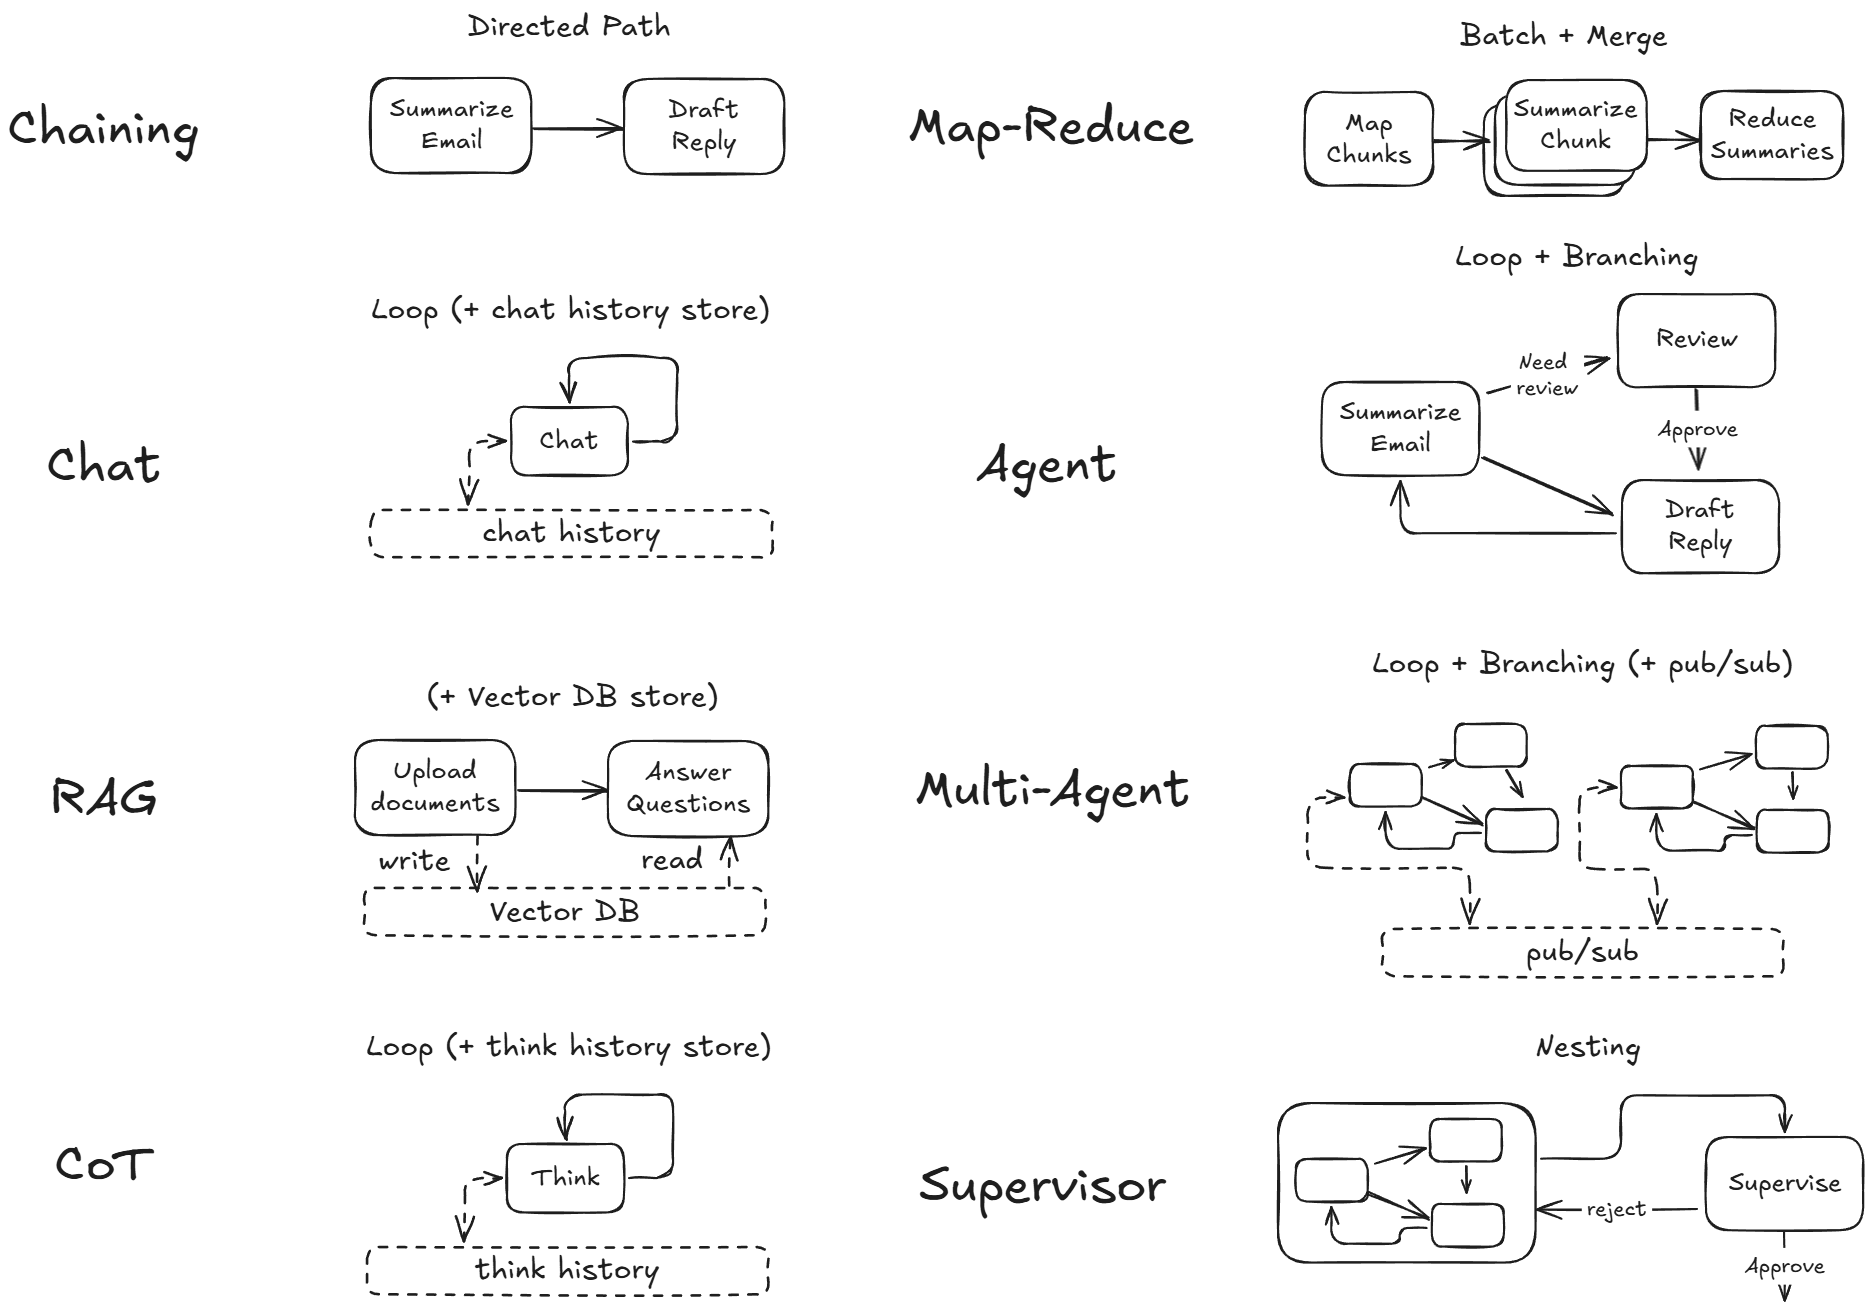
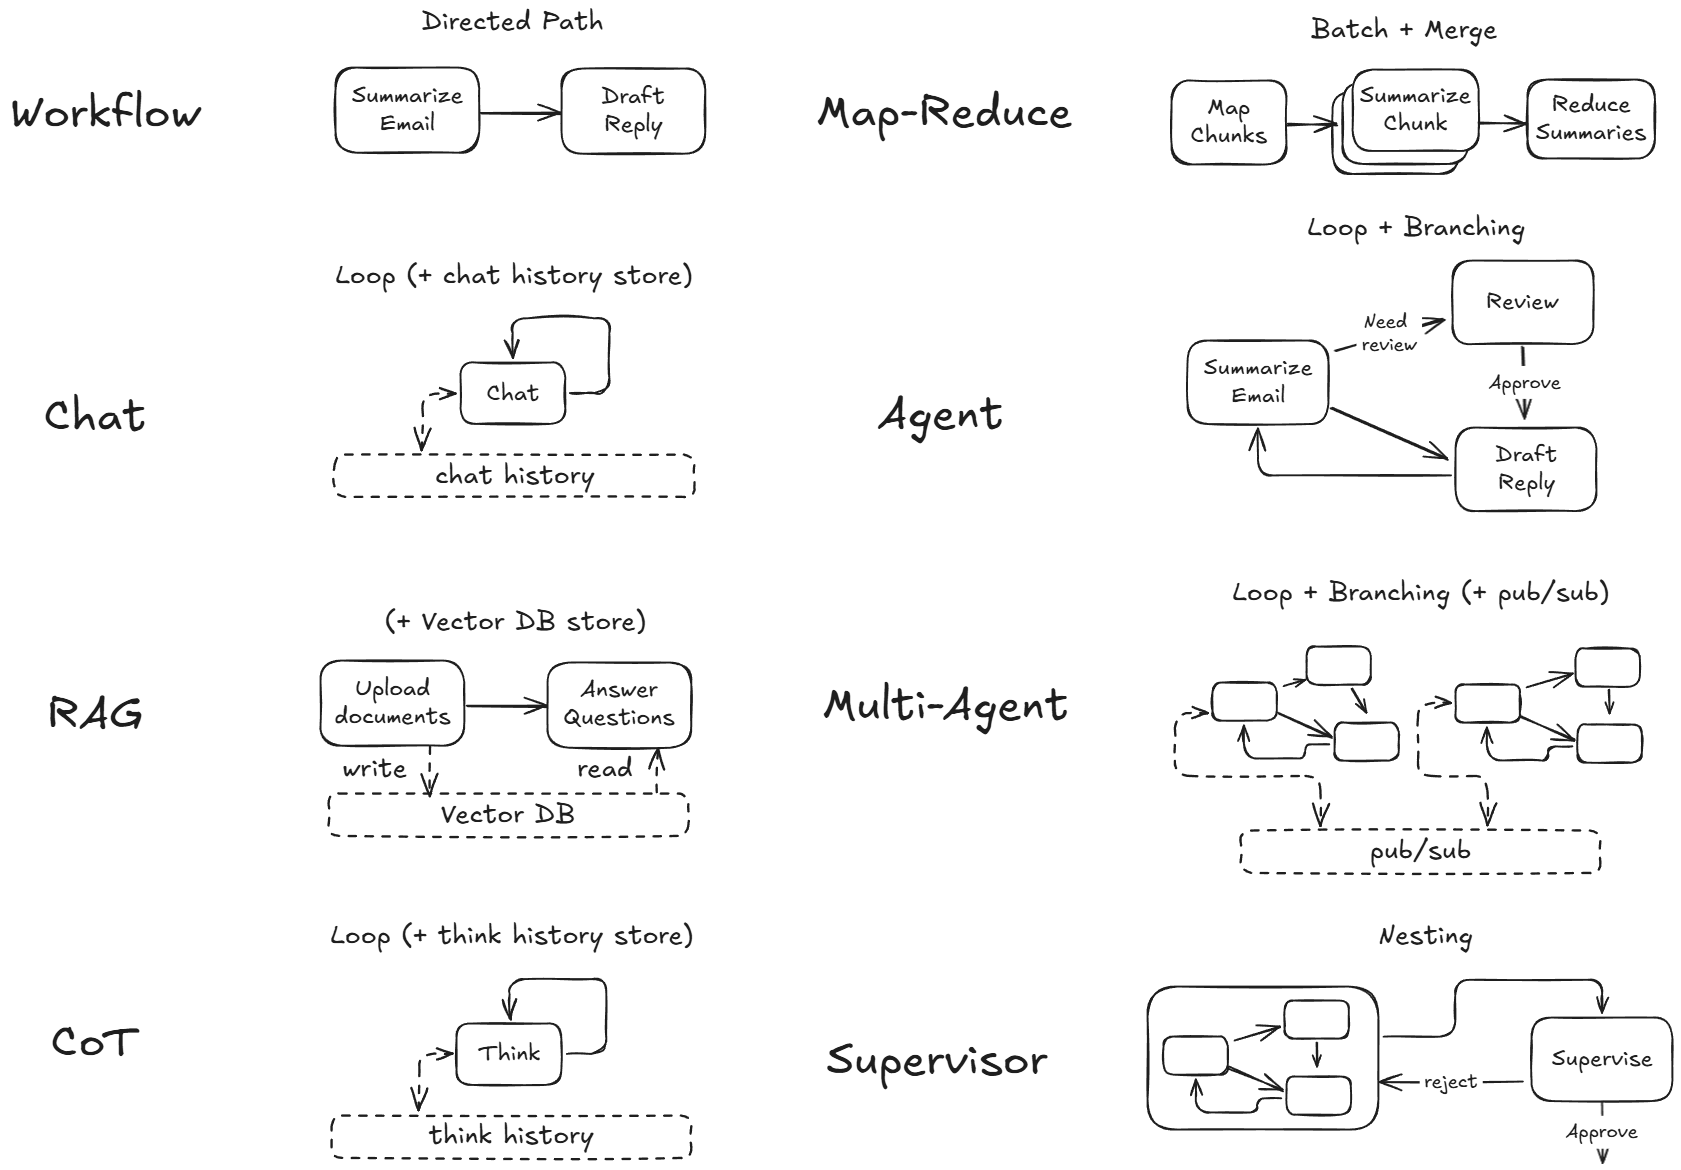
update readme

diff --git a/README.md b/README.md
@@ -11,7 +11,7 @@
 
 <br>
 
-A [100-line](pocketflow/__init__.py) minimalist LLM framework for ([Multi-](https://the-pocket.github.io/PocketFlow/multi_agent.html))[Agents](https://the-pocket.github.io/PocketFlow/agent.html), [Prompt Chaining](https://the-pocket.github.io/PocketFlow/decomp.html), [RAG](https://the-pocket.github.io/PocketFlow/rag.html), etc.
+A [100-line](pocketflow/__init__.py) minimalist LLM framework for ([Multi-](https://the-pocket.github.io/PocketFlow/multi_agent.html))[Agents](https://the-pocket.github.io/PocketFlow/agent.html), [Workflow](https://the-pocket.github.io/PocketFlow/decomp.html), [RAG](https://the-pocket.github.io/PocketFlow/rag.html), etc.
 
 - Install via  ```pip install pocketflow```, or just copy the [source code](pocketflow/__init__.py) (only 100 lines).
 
@@ -27,9 +27,11 @@ Pocket Flow is designed to be **the framework used by LLM Agents**:
 
 - 🤖 LLM Agents build the LLM project for you, using *Pocket Flow*.
 
+- Demo Cookbook can be found [here](cookbook)
+
 To build LLM projects with LLM Agents (Cursor, ChatGPT, Claude, etc.):
 
-  - **[Cursor Rules](https://docs.cursor.com/context/rules-for-ai)**: Copy and paste the [.cursorrules](https://github.com/The-Pocket/PocketFlow/blob/main/assets/.cursorrules) (created from [docs](docs)) into the root of your project.
+  - **[Cursor Rules](https://docs.cursor.com/context/rules-for-ai)**: Copy and paste the [.cursorrules](assets/.cursorrules) (created from [docs](docs)) into the root of your project.
 
   - **[ChatGPT Project](https://help.openai.com/en/articles/10169521-using-projects-in-chatgpt)**: Create a project and upload the [docs](docs) to project knowledge.
   
@@ -51,7 +53,7 @@ The [100 lines](pocketflow/__init__.py) capture what we believe to be the core a
 </div>
 <br>
 
-From there, it’s easy to implement popular design patterns like ([Multi-](https://the-pocket.github.io/PocketFlow/multi_agent.html))[Agents](https://the-pocket.github.io/PocketFlow/agent.html), [Prompt Chaining](https://the-pocket.github.io/PocketFlow/decomp.html), [RAG](https://the-pocket.github.io/PocketFlow/rag.html), etc.
+From there, it’s easy to implement popular design patterns like ([Multi-](https://the-pocket.github.io/PocketFlow/multi_agent.html))[Agents](https://the-pocket.github.io/PocketFlow/agent.html), [Workflow](https://the-pocket.github.io/PocketFlow/decomp.html), [RAG](https://the-pocket.github.io/PocketFlow/rag.html), etc.
 
 <br>
 <div align="center">
